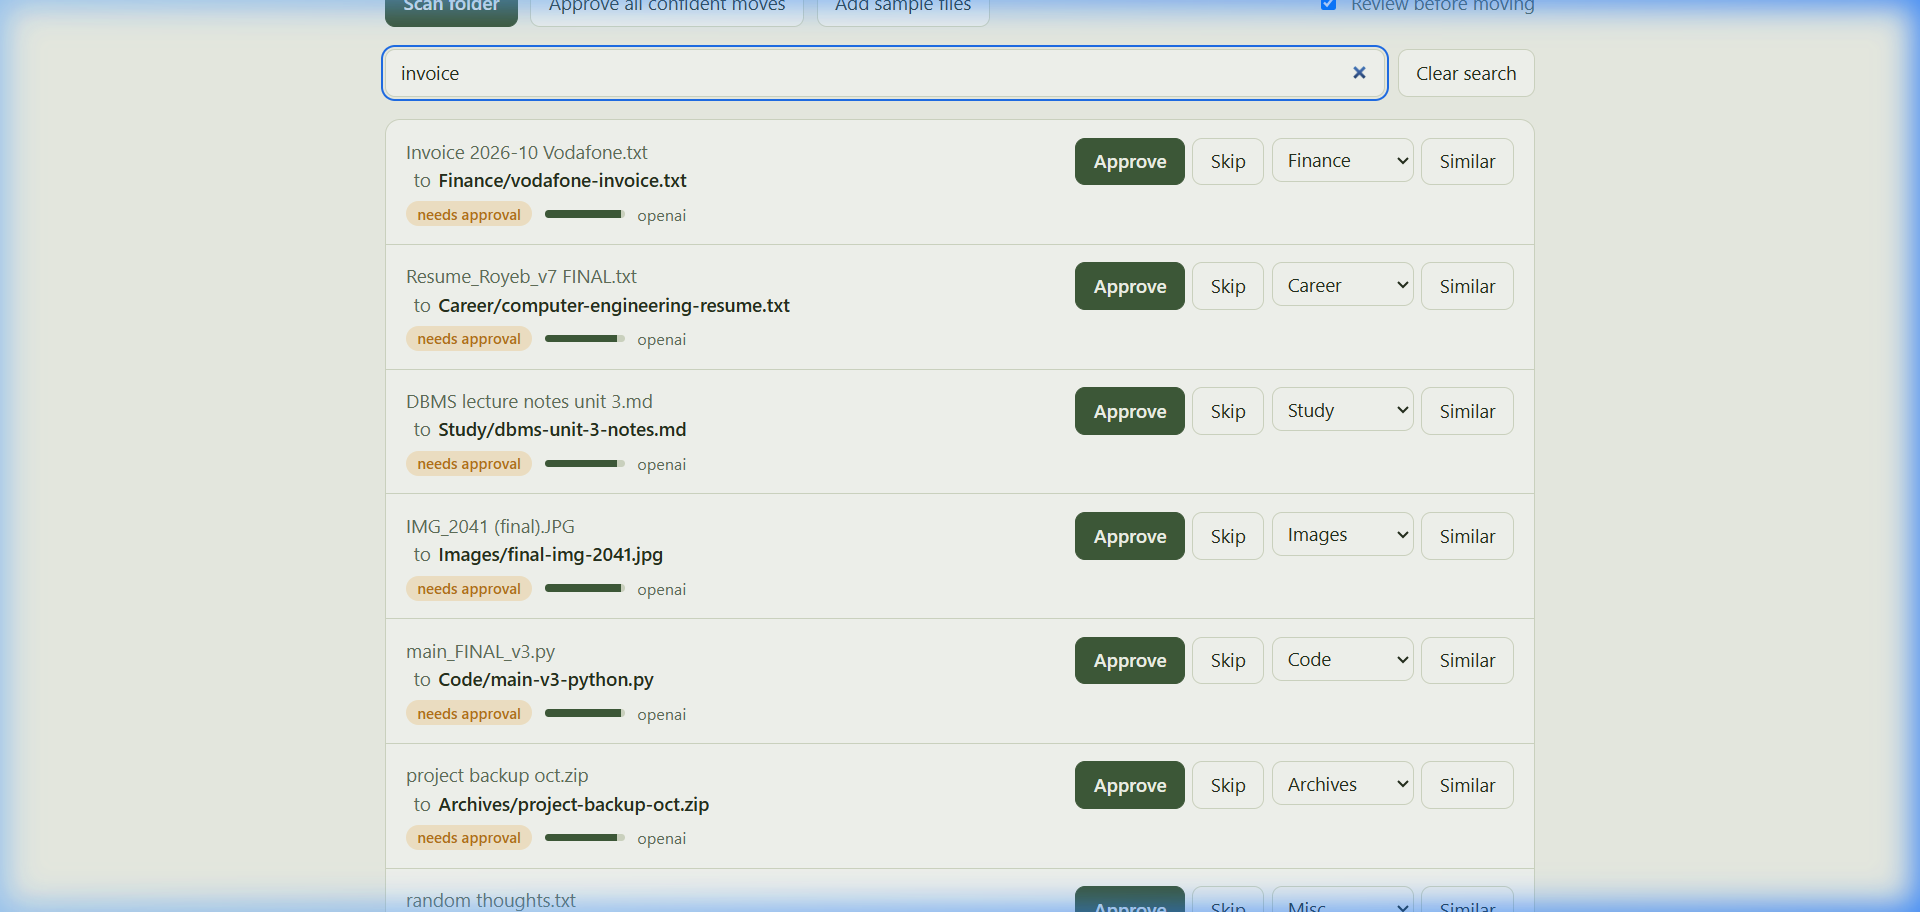
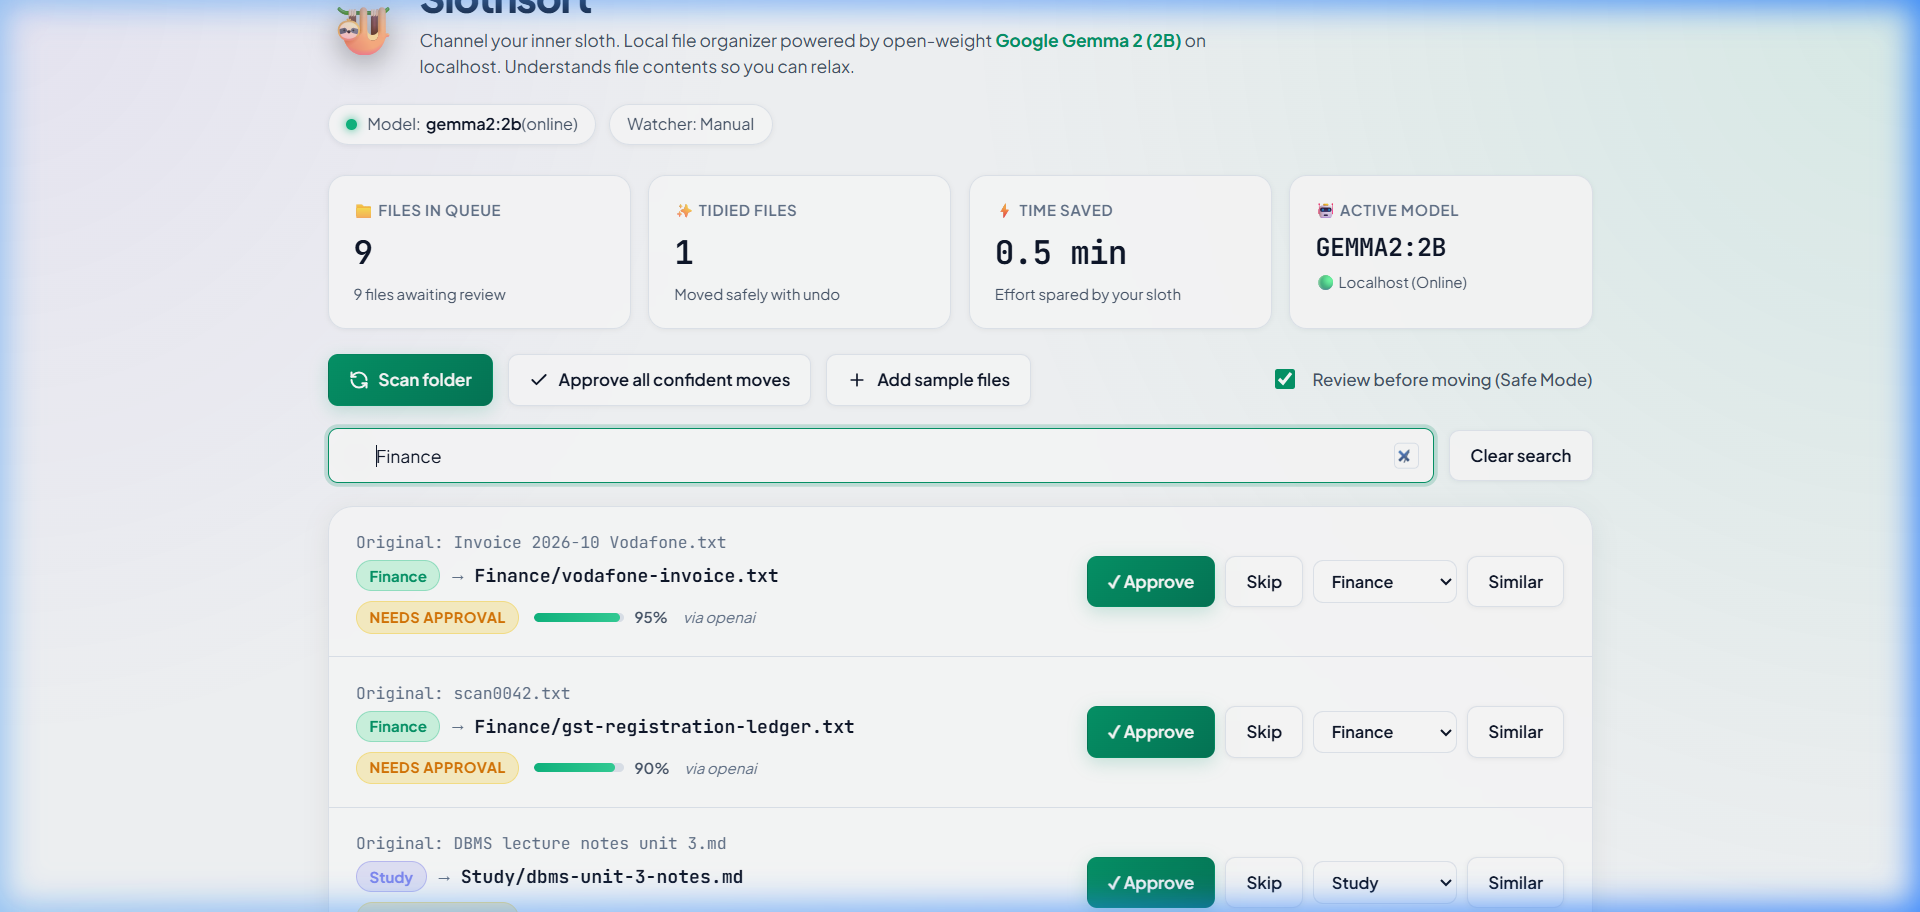
docs: add updated high-resolution dashboard screenshots, visual tour gallery, and verified repo links

diff --git a/DEV_SUBMISSION.md b/DEV_SUBMISSION.md
@@ -4,7 +4,7 @@ published: false
 description: "A desktop file organizer built for the DEV 'Slow and Steady' Challenge. Uses Google's open-weight Gemma 2 2B model on localhost to sort messy downloads by content with zero data leaks."
 tags: devchallenge, slowandsteady, gemma, python, opensource
 canonical_url: https://dev.to/anurag-tech22/slothsort-tidying-my-downloads-folder-with-a-local-gemma-model
-cover_image: https://raw.githubusercontent.com/Anurag-tech22/slothsort/main/docs/screenshots/01_hero_dashboard.png
+cover_image: https://raw.githubusercontent.com/Anurag-tech22/slothsort-/main/docs/screenshots/01_hero_dashboard.png
 ---
 
 *This article is a submission for the [DEV Slow and Steady Challenge: Open Source AI](https://dev.to/challenges/slowandsteady).*
@@ -64,13 +64,21 @@ Slothsort is built with **FastAPI**, **SQLite**, and standard open-source tools:
 
 Here is the clean dashboard after scanning a batch of cluttered files:
 
-![Slothsort Clean Dashboard](https://raw.githubusercontent.com/Anurag-tech22/slothsort/main/docs/screenshots/01_hero_dashboard.png)
+![Slothsort Clean Dashboard](https://raw.githubusercontent.com/Anurag-tech22/slothsort-/main/docs/screenshots/01_hero_dashboard.png)
 
-And here are the classified proposals:
+And here are the proposals classified by local Gemma:
 
-![Gemma Classified Moves](https://raw.githubusercontent.com/Anurag-tech22/slothsort/main/docs/screenshots/02_gemma_classified_proposals.png)
+![Gemma Classified Moves](https://raw.githubusercontent.com/Anurag-tech22/slothsort-/main/docs/screenshots/02_gemma_classified_proposals.png)
 
 Look at `scan0042.txt`: instead of rotting in a generic documents folder, Gemma read the text inside, recognized the quarterly GST filing, and proposed `Finance / gst-registration-ledger.txt`.
+
+You can also filter files instantly using the `/` keyboard shortcut:
+
+![Instant Search Filtering](https://raw.githubusercontent.com/Anurag-tech22/slothsort-/main/docs/screenshots/03_instant_search_filtering.png)
+
+And when you approve a move, Slothsort logs the transaction so you can click "Undo" anytime:
+
+![Safe Move Approved with Undo](https://raw.githubusercontent.com/Anurag-tech22/slothsort-/main/docs/screenshots/04_safe_move_applied_undo.png)
 
 ---
 
@@ -177,6 +185,6 @@ Building Slothsort changed how I think about open-weight models:
 - **Slow and steady wins.** You don't need instant millisecond inference when software works in the background on your behalf. 
 
 Source code and tests are fully open source on GitHub:
-👉 **[GitHub Repository: Anurag-tech22/slothsort](https://github.com/Anurag-tech22/slothsort)**
+👉 **[GitHub Repository: Anurag-tech22/slothsort-](https://github.com/Anurag-tech22/slothsort-)**
 
 Let Slothsort do the slow and steady work, and enjoy your clean Downloads folder!

diff --git a/README.md b/README.md
@@ -179,6 +179,18 @@ sequenceDiagram
 
 ---
 
+## 📸 Visual Tour
+
+| Hero Dashboard & Stats | AI Content-Classified Proposals |
+|:---:|:---:|
+| ![Hero Dashboard](docs/screenshots/01_hero_dashboard.png) | ![Classified Proposals](docs/screenshots/02_gemma_classified_proposals.png) |
+
+| Instant Search Filtering (`/` shortcut) | Safe Execution & One-Click Undo |
+|:---:|:---:|
+| ![Instant Search](docs/screenshots/03_instant_search_filtering.png) | ![Approved Moves & Undo](docs/screenshots/04_safe_move_applied_undo.png) |
+
+---
+
 ## 📊 Real Benchmark: Heuristics vs. Gemma 2B
 
 Slothsort includes an automated benchmark suite (`benchmark.py`) with 21 real-world synthetic test cases mixing obvious filenames with deliberately misleading names (e.g., `thing.md` containing CPU scheduling notes, `doc1.txt` containing a cover letter).
